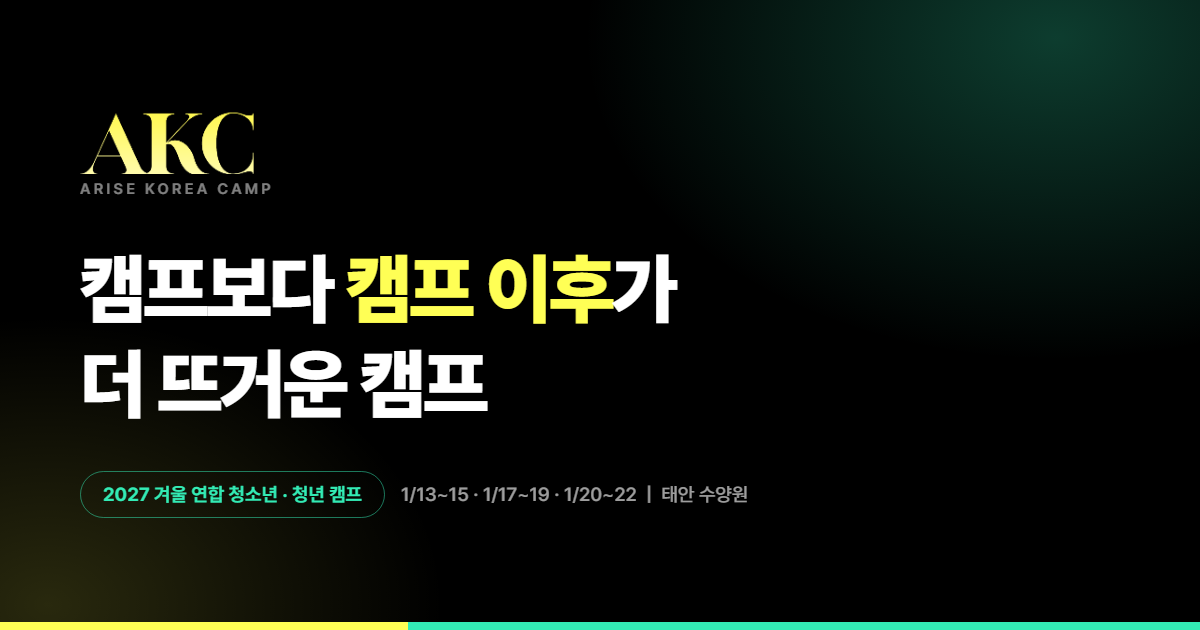
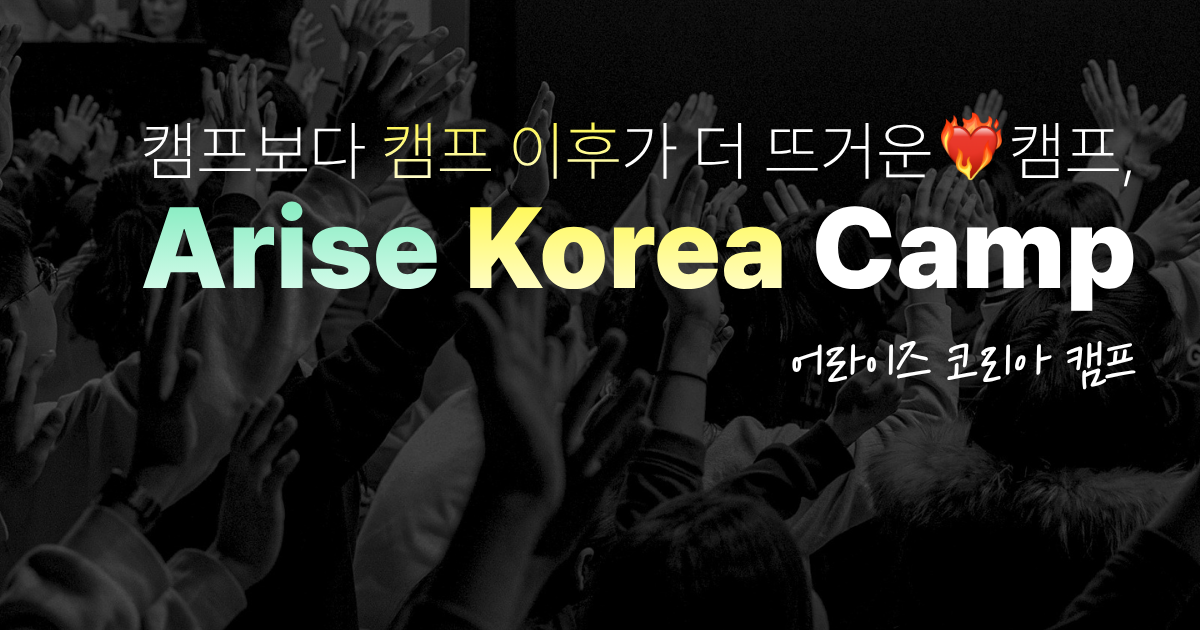
OG 공유 이미지를 새 디자인으로 교체
- og.png 교체 (1200x630), 카카오톡 등 캐시 갱신을 위해 이미지 주소에 ?v=2
- 이미지 설명(og:image:alt) 새 문구로 수정, 안내 문서 항목 완료 처리

diff --git a/index.html b/index.html
@@ -11,14 +11,14 @@
 <meta property="og:title" content="AKC · Arise Korea Camp | 캠프보다 캠프 이후가 더 뜨거운 캠프">
 <meta property="og:description" content="AKC(Arise Korea Camp)는 킹덤 프로듀서 · 킹덤 빌더 · 킹덤 어라이저, 세 가지 방향성으로 만들어진 전국 지역교회 연합 캠프입니다. 2027년 겨울 연합 청소년·청년 캠프 신청 안내.">
 <meta property="og:url" content="https://intoedu.github.io/AKC/">
-<meta property="og:image" content="https://intoedu.github.io/AKC/assets/img/og.png">
+<meta property="og:image" content="https://intoedu.github.io/AKC/assets/img/og.png?v=2">
 <meta property="og:image:width" content="1200">
 <meta property="og:image:height" content="630">
-<meta property="og:image:alt" content="AKC · 캠프보다 캠프 이후가 더 뜨거운 캠프">
+<meta property="og:image:alt" content="Arise Korea Camp · 캠프보다 캠프 이후가 더 뜨거운 캠프">
 <meta name="twitter:card" content="summary_large_image">
 <meta name="twitter:title" content="AKC · Arise Korea Camp | 캠프보다 캠프 이후가 더 뜨거운 캠프">
 <meta name="twitter:description" content="AKC(Arise Korea Camp)는 킹덤 프로듀서 · 킹덤 빌더 · 킹덤 어라이저, 세 가지 방향성으로 만들어진 전국 지역교회 연합 캠프입니다. 2027년 겨울 연합 청소년·청년 캠프 신청 안내.">
-<meta name="twitter:image" content="https://intoedu.github.io/AKC/assets/img/og.png">
+<meta name="twitter:image" content="https://intoedu.github.io/AKC/assets/img/og.png?v=2">
 <link rel="icon" href="assets/img/favicon.png">
 <link rel="preconnect" href="https://cdn.jsdelivr.net">
 <link rel="preconnect" href="https://cdn.jsdelivr.net" crossorigin>

diff --git a/about.html b/about.html
@@ -11,14 +11,14 @@
 <meta property="og:title" content="AKC 소개 | AKC · Arise Korea Camp">
 <meta property="og:description" content="AKC(Arise Korea Camp) 소개와 인사말. 킹덤 프로듀서 · 킹덤 빌더 · 킹덤 어라이저의 방향성으로 세워진 전국 지역교회 연합 캠프입니다.">
 <meta property="og:url" content="https://intoedu.github.io/AKC/about">
-<meta property="og:image" content="https://intoedu.github.io/AKC/assets/img/og.png">
+<meta property="og:image" content="https://intoedu.github.io/AKC/assets/img/og.png?v=2">
 <meta property="og:image:width" content="1200">
 <meta property="og:image:height" content="630">
-<meta property="og:image:alt" content="AKC · 캠프보다 캠프 이후가 더 뜨거운 캠프">
+<meta property="og:image:alt" content="Arise Korea Camp · 캠프보다 캠프 이후가 더 뜨거운 캠프">
 <meta name="twitter:card" content="summary_large_image">
 <meta name="twitter:title" content="AKC 소개 | AKC · Arise Korea Camp">
 <meta name="twitter:description" content="AKC(Arise Korea Camp) 소개와 인사말. 킹덤 프로듀서 · 킹덤 빌더 · 킹덤 어라이저의 방향성으로 세워진 전국 지역교회 연합 캠프입니다.">
-<meta name="twitter:image" content="https://intoedu.github.io/AKC/assets/img/og.png">
+<meta name="twitter:image" content="https://intoedu.github.io/AKC/assets/img/og.png?v=2">
 <link rel="icon" href="assets/img/favicon.png">
 <link rel="preconnect" href="https://cdn.jsdelivr.net">
 <link rel="preconnect" href="https://cdn.jsdelivr.net" crossorigin>

diff --git a/camp-spirit-union.html b/camp-spirit-union.html
@@ -11,14 +11,14 @@
 <meta property="og:title" content="연합 캠프 | AKC · Arise Korea Camp">
 <meta property="og:description" content="2027년 겨울 AKC 연합 청소년·청년 캠프. 5차 1/13~15, 6차 1/17~19, 7차 1/20~22, 태안수양관(충남 태안군 소원면 소근로 630-15).">
 <meta property="og:url" content="https://intoedu.github.io/AKC/camp-spirit-union">
-<meta property="og:image" content="https://intoedu.github.io/AKC/assets/img/og.png">
+<meta property="og:image" content="https://intoedu.github.io/AKC/assets/img/og.png?v=2">
 <meta property="og:image:width" content="1200">
 <meta property="og:image:height" content="630">
-<meta property="og:image:alt" content="AKC · 캠프보다 캠프 이후가 더 뜨거운 캠프">
+<meta property="og:image:alt" content="Arise Korea Camp · 캠프보다 캠프 이후가 더 뜨거운 캠프">
 <meta name="twitter:card" content="summary_large_image">
 <meta name="twitter:title" content="연합 캠프 | AKC · Arise Korea Camp">
 <meta name="twitter:description" content="2027년 겨울 AKC 연합 청소년·청년 캠프. 5차 1/13~15, 6차 1/17~19, 7차 1/20~22, 태안수양관(충남 태안군 소원면 소근로 630-15).">
-<meta name="twitter:image" content="https://intoedu.github.io/AKC/assets/img/og.png">
+<meta name="twitter:image" content="https://intoedu.github.io/AKC/assets/img/og.png?v=2">
 <link rel="icon" href="assets/img/favicon.png">
 <link rel="preconnect" href="https://cdn.jsdelivr.net">
 <link rel="preconnect" href="https://cdn.jsdelivr.net" crossorigin>

diff --git a/camp-spirit-young.html b/camp-spirit-young.html
@@ -11,14 +11,14 @@
 <meta property="og:title" content="청년 캠프 | AKC · Arise Korea Camp">
 <meta property="og:description" content="AKC 청년 캠프 - 대학생·직장 청년을 위한 영성 캠프. 진로와 일터에서 킹덤 빌더로 살아가는 길을 함께 찾습니다.">
 <meta property="og:url" content="https://intoedu.github.io/AKC/camp-spirit-young">
-<meta property="og:image" content="https://intoedu.github.io/AKC/assets/img/og.png">
+<meta property="og:image" content="https://intoedu.github.io/AKC/assets/img/og.png?v=2">
 <meta property="og:image:width" content="1200">
 <meta property="og:image:height" content="630">
-<meta property="og:image:alt" content="AKC · 캠프보다 캠프 이후가 더 뜨거운 캠프">
+<meta property="og:image:alt" content="Arise Korea Camp · 캠프보다 캠프 이후가 더 뜨거운 캠프">
 <meta name="twitter:card" content="summary_large_image">
 <meta name="twitter:title" content="청년 캠프 | AKC · Arise Korea Camp">
 <meta name="twitter:description" content="AKC 청년 캠프 - 대학생·직장 청년을 위한 영성 캠프. 진로와 일터에서 킹덤 빌더로 살아가는 길을 함께 찾습니다.">
-<meta name="twitter:image" content="https://intoedu.github.io/AKC/assets/img/og.png">
+<meta name="twitter:image" content="https://intoedu.github.io/AKC/assets/img/og.png?v=2">
 <link rel="icon" href="assets/img/favicon.png">
 <link rel="preconnect" href="https://cdn.jsdelivr.net">
 <link rel="preconnect" href="https://cdn.jsdelivr.net" crossorigin>

diff --git a/camp-spirit-youth.html b/camp-spirit-youth.html
@@ -11,14 +11,14 @@
 <meta property="og:title" content="청소년 캠프 | AKC · Arise Korea Camp">
 <meta property="og:description" content="AKC 청소년 캠프 - 중·고등학생을 위한 영성 캠프. 학업과 진로의 압박 속에서 신앙의 기초를 다시 세웁니다.">
 <meta property="og:url" content="https://intoedu.github.io/AKC/camp-spirit-youth">
-<meta property="og:image" content="https://intoedu.github.io/AKC/assets/img/og.png">
+<meta property="og:image" content="https://intoedu.github.io/AKC/assets/img/og.png?v=2">
 <meta property="og:image:width" content="1200">
 <meta property="og:image:height" content="630">
-<meta property="og:image:alt" content="AKC · 캠프보다 캠프 이후가 더 뜨거운 캠프">
+<meta property="og:image:alt" content="Arise Korea Camp · 캠프보다 캠프 이후가 더 뜨거운 캠프">
 <meta name="twitter:card" content="summary_large_image">
 <meta name="twitter:title" content="청소년 캠프 | AKC · Arise Korea Camp">
 <meta name="twitter:description" content="AKC 청소년 캠프 - 중·고등학생을 위한 영성 캠프. 학업과 진로의 압박 속에서 신앙의 기초를 다시 세웁니다.">
-<meta name="twitter:image" content="https://intoedu.github.io/AKC/assets/img/og.png">
+<meta name="twitter:image" content="https://intoedu.github.io/AKC/assets/img/og.png?v=2">
 <link rel="icon" href="assets/img/favicon.png">
 <link rel="preconnect" href="https://cdn.jsdelivr.net">
 <link rel="preconnect" href="https://cdn.jsdelivr.net" crossorigin>

diff --git a/camp-field.html b/camp-field.html
@@ -11,14 +11,14 @@
 <meta property="og:title" content="영역 캠프 | AKC · Arise Korea Camp">
 <meta property="og:description" content="AKC 영역 캠프 - 수학 캠프와 과학 캠프. 각자의 학문 영역에서 하나님 나라를 세우는 킹덤 프로듀서를 기릅니다.">
 <meta property="og:url" content="https://intoedu.github.io/AKC/camp-field">
-<meta property="og:image" content="https://intoedu.github.io/AKC/assets/img/og.png">
+<meta property="og:image" content="https://intoedu.github.io/AKC/assets/img/og.png?v=2">
 <meta property="og:image:width" content="1200">
 <meta property="og:image:height" content="630">
-<meta property="og:image:alt" content="AKC · 캠프보다 캠프 이후가 더 뜨거운 캠프">
+<meta property="og:image:alt" content="Arise Korea Camp · 캠프보다 캠프 이후가 더 뜨거운 캠프">
 <meta name="twitter:card" content="summary_large_image">
 <meta name="twitter:title" content="영역 캠프 | AKC · Arise Korea Camp">
 <meta name="twitter:description" content="AKC 영역 캠프 - 수학 캠프와 과학 캠프. 각자의 학문 영역에서 하나님 나라를 세우는 킹덤 프로듀서를 기릅니다.">
-<meta name="twitter:image" content="https://intoedu.github.io/AKC/assets/img/og.png">
+<meta name="twitter:image" content="https://intoedu.github.io/AKC/assets/img/og.png?v=2">
 <link rel="icon" href="assets/img/favicon.png">
 <link rel="preconnect" href="https://cdn.jsdelivr.net">
 <link rel="preconnect" href="https://cdn.jsdelivr.net" crossorigin>

diff --git a/camp-spirit.html b/camp-spirit.html
@@ -11,14 +11,14 @@
 <meta property="og:title" content="영성 캠프 | AKC · Arise Korea Camp">
 <meta property="og:description" content="AKC 영성 캠프 - 연합 캠프, 청소년 캠프, 청년 캠프. 예배와 말씀, 기도로 다음 세대를 세우는 연합 캠프입니다.">
 <meta property="og:url" content="https://intoedu.github.io/AKC/camp-spirit">
-<meta property="og:image" content="https://intoedu.github.io/AKC/assets/img/og.png">
+<meta property="og:image" content="https://intoedu.github.io/AKC/assets/img/og.png?v=2">
 <meta property="og:image:width" content="1200">
 <meta property="og:image:height" content="630">
-<meta property="og:image:alt" content="AKC · 캠프보다 캠프 이후가 더 뜨거운 캠프">
+<meta property="og:image:alt" content="Arise Korea Camp · 캠프보다 캠프 이후가 더 뜨거운 캠프">
 <meta name="twitter:card" content="summary_large_image">
 <meta name="twitter:title" content="영성 캠프 | AKC · Arise Korea Camp">
 <meta name="twitter:description" content="AKC 영성 캠프 - 연합 캠프, 청소년 캠프, 청년 캠프. 예배와 말씀, 기도로 다음 세대를 세우는 연합 캠프입니다.">
-<meta name="twitter:image" content="https://intoedu.github.io/AKC/assets/img/og.png">
+<meta name="twitter:image" content="https://intoedu.github.io/AKC/assets/img/og.png?v=2">
 <link rel="icon" href="assets/img/favicon.png">
 <link rel="preconnect" href="https://cdn.jsdelivr.net">
 <link rel="preconnect" href="https://cdn.jsdelivr.net" crossorigin>

diff --git a/camp-field-math.html b/camp-field-math.html
@@ -11,14 +11,14 @@
 <meta property="og:title" content="수학 캠프 | AKC · Arise Korea Camp">
 <meta property="og:description" content="AKC 영역 캠프 - 수학 캠프. 수와 질서 속에서 창조의 규칙을 발견하고, 수학을 소명의 언어로 다시 배웁니다.">
 <meta property="og:url" content="https://intoedu.github.io/AKC/camp-field-math">
-<meta property="og:image" content="https://intoedu.github.io/AKC/assets/img/og.png">
+<meta property="og:image" content="https://intoedu.github.io/AKC/assets/img/og.png?v=2">
 <meta property="og:image:width" content="1200">
 <meta property="og:image:height" content="630">
-<meta property="og:image:alt" content="AKC · 캠프보다 캠프 이후가 더 뜨거운 캠프">
+<meta property="og:image:alt" content="Arise Korea Camp · 캠프보다 캠프 이후가 더 뜨거운 캠프">
 <meta name="twitter:card" content="summary_large_image">
 <meta name="twitter:title" content="수학 캠프 | AKC · Arise Korea Camp">
 <meta name="twitter:description" content="AKC 영역 캠프 - 수학 캠프. 수와 질서 속에서 창조의 규칙을 발견하고, 수학을 소명의 언어로 다시 배웁니다.">
-<meta name="twitter:image" content="https://intoedu.github.io/AKC/assets/img/og.png">
+<meta name="twitter:image" content="https://intoedu.github.io/AKC/assets/img/og.png?v=2">
 <link rel="icon" href="assets/img/favicon.png">
 <link rel="preconnect" href="https://cdn.jsdelivr.net">
 <link rel="preconnect" href="https://cdn.jsdelivr.net" crossorigin>

diff --git a/gallery.html b/gallery.html
@@ -11,14 +11,14 @@
 <meta property="og:title" content="갤러리 | AKC · Arise Korea Camp">
 <meta property="og:description" content="AKC 캠프 현장 사진 갤러리. 예배, 말씀, 부스 프로그램, 야외 활동, 기도, 조별 나눔, 레크레이션 등 캠프의 순간들.">
 <meta property="og:url" content="https://intoedu.github.io/AKC/gallery">
-<meta property="og:image" content="https://intoedu.github.io/AKC/assets/img/og.png">
+<meta property="og:image" content="https://intoedu.github.io/AKC/assets/img/og.png?v=2">
 <meta property="og:image:width" content="1200">
 <meta property="og:image:height" content="630">
-<meta property="og:image:alt" content="AKC · 캠프보다 캠프 이후가 더 뜨거운 캠프">
+<meta property="og:image:alt" content="Arise Korea Camp · 캠프보다 캠프 이후가 더 뜨거운 캠프">
 <meta name="twitter:card" content="summary_large_image">
 <meta name="twitter:title" content="갤러리 | AKC · Arise Korea Camp">
 <meta name="twitter:description" content="AKC 캠프 현장 사진 갤러리. 예배, 말씀, 부스 프로그램, 야외 활동, 기도, 조별 나눔, 레크레이션 등 캠프의 순간들.">
-<meta name="twitter:image" content="https://intoedu.github.io/AKC/assets/img/og.png">
+<meta name="twitter:image" content="https://intoedu.github.io/AKC/assets/img/og.png?v=2">
 <link rel="icon" href="assets/img/favicon.png">
 <link rel="preconnect" href="https://cdn.jsdelivr.net">
 <link rel="preconnect" href="https://cdn.jsdelivr.net" crossorigin>

diff --git a/camp-field-science.html b/camp-field-science.html
@@ -11,14 +11,14 @@
 <meta property="og:title" content="과학 캠프 | AKC · Arise Korea Camp">
 <meta property="og:description" content="AKC 영역 캠프 - 과학 캠프. 관찰과 실험으로 세계를 읽고, 과학과 신앙의 질문을 정면으로 다룹니다.">
 <meta property="og:url" content="https://intoedu.github.io/AKC/camp-field-science">
-<meta property="og:image" content="https://intoedu.github.io/AKC/assets/img/og.png">
+<meta property="og:image" content="https://intoedu.github.io/AKC/assets/img/og.png?v=2">
 <meta property="og:image:width" content="1200">
 <meta property="og:image:height" content="630">
-<meta property="og:image:alt" content="AKC · 캠프보다 캠프 이후가 더 뜨거운 캠프">
+<meta property="og:image:alt" content="Arise Korea Camp · 캠프보다 캠프 이후가 더 뜨거운 캠프">
 <meta name="twitter:card" content="summary_large_image">
 <meta name="twitter:title" content="과학 캠프 | AKC · Arise Korea Camp">
 <meta name="twitter:description" content="AKC 영역 캠프 - 과학 캠프. 관찰과 실험으로 세계를 읽고, 과학과 신앙의 질문을 정면으로 다룹니다.">
-<meta name="twitter:image" content="https://intoedu.github.io/AKC/assets/img/og.png">
+<meta name="twitter:image" content="https://intoedu.github.io/AKC/assets/img/og.png?v=2">
 <link rel="icon" href="assets/img/favicon.png">
 <link rel="preconnect" href="https://cdn.jsdelivr.net">
 <link rel="preconnect" href="https://cdn.jsdelivr.net" crossorigin>

diff --git a/location.html b/location.html
@@ -11,14 +11,14 @@
 <meta property="og:title" content="오시는 길 | AKC · Arise Korea Camp">
 <meta property="og:description" content="2027 겨울 5~7차 캠프 장소 안내 - AKC 자체 운영 시설 태안수양관(충남 태안군 소원면 소근로 630-15).">
 <meta property="og:url" content="https://intoedu.github.io/AKC/location">
-<meta property="og:image" content="https://intoedu.github.io/AKC/assets/img/og.png">
+<meta property="og:image" content="https://intoedu.github.io/AKC/assets/img/og.png?v=2">
 <meta property="og:image:width" content="1200">
 <meta property="og:image:height" content="630">
-<meta property="og:image:alt" content="AKC · 캠프보다 캠프 이후가 더 뜨거운 캠프">
+<meta property="og:image:alt" content="Arise Korea Camp · 캠프보다 캠프 이후가 더 뜨거운 캠프">
 <meta name="twitter:card" content="summary_large_image">
 <meta name="twitter:title" content="오시는 길 | AKC · Arise Korea Camp">
 <meta name="twitter:description" content="2027 겨울 5~7차 캠프 장소 안내 - AKC 자체 운영 시설 태안수양관(충남 태안군 소원면 소근로 630-15).">
-<meta name="twitter:image" content="https://intoedu.github.io/AKC/assets/img/og.png">
+<meta name="twitter:image" content="https://intoedu.github.io/AKC/assets/img/og.png?v=2">
 <link rel="icon" href="assets/img/favicon.png">
 <link rel="preconnect" href="https://cdn.jsdelivr.net">
 <link rel="preconnect" href="https://cdn.jsdelivr.net" crossorigin>

diff --git a/contact.html b/contact.html
@@ -11,14 +11,14 @@
 <meta property="og:title" content="신청 · 문의하기 | AKC · Arise Korea Camp">
 <meta property="og:description" content="AKC 2027 겨울 5~7차 캠프 신청 및 문의. 신청 기간 2026년 9월 18일(금) 오전 8시 ~ 12월 28일(월).">
 <meta property="og:url" content="https://intoedu.github.io/AKC/contact">
-<meta property="og:image" content="https://intoedu.github.io/AKC/assets/img/og.png">
+<meta property="og:image" content="https://intoedu.github.io/AKC/assets/img/og.png?v=2">
 <meta property="og:image:width" content="1200">
 <meta property="og:image:height" content="630">
-<meta property="og:image:alt" content="AKC · 캠프보다 캠프 이후가 더 뜨거운 캠프">
+<meta property="og:image:alt" content="Arise Korea Camp · 캠프보다 캠프 이후가 더 뜨거운 캠프">
 <meta name="twitter:card" content="summary_large_image">
 <meta name="twitter:title" content="신청 · 문의하기 | AKC · Arise Korea Camp">
 <meta name="twitter:description" content="AKC 2027 겨울 5~7차 캠프 신청 및 문의. 신청 기간 2026년 9월 18일(금) 오전 8시 ~ 12월 28일(월).">
-<meta name="twitter:image" content="https://intoedu.github.io/AKC/assets/img/og.png">
+<meta name="twitter:image" content="https://intoedu.github.io/AKC/assets/img/og.png?v=2">
 <link rel="icon" href="assets/img/favicon.png">
 <link rel="preconnect" href="https://cdn.jsdelivr.net">
 <link rel="preconnect" href="https://cdn.jsdelivr.net" crossorigin>
